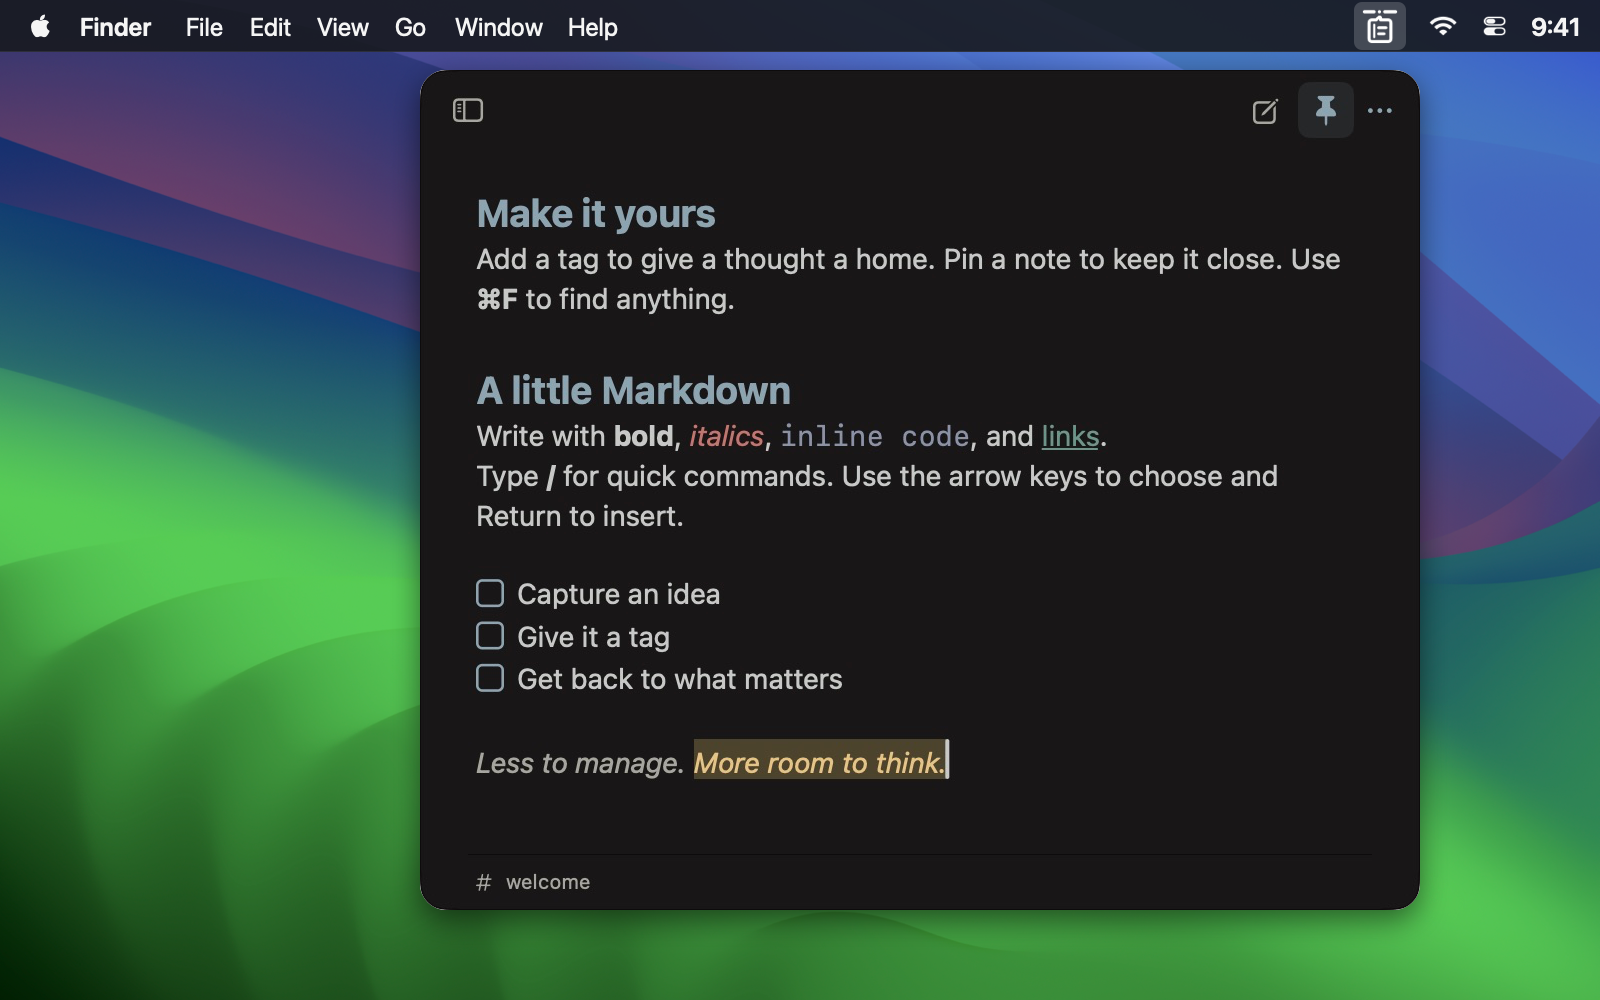
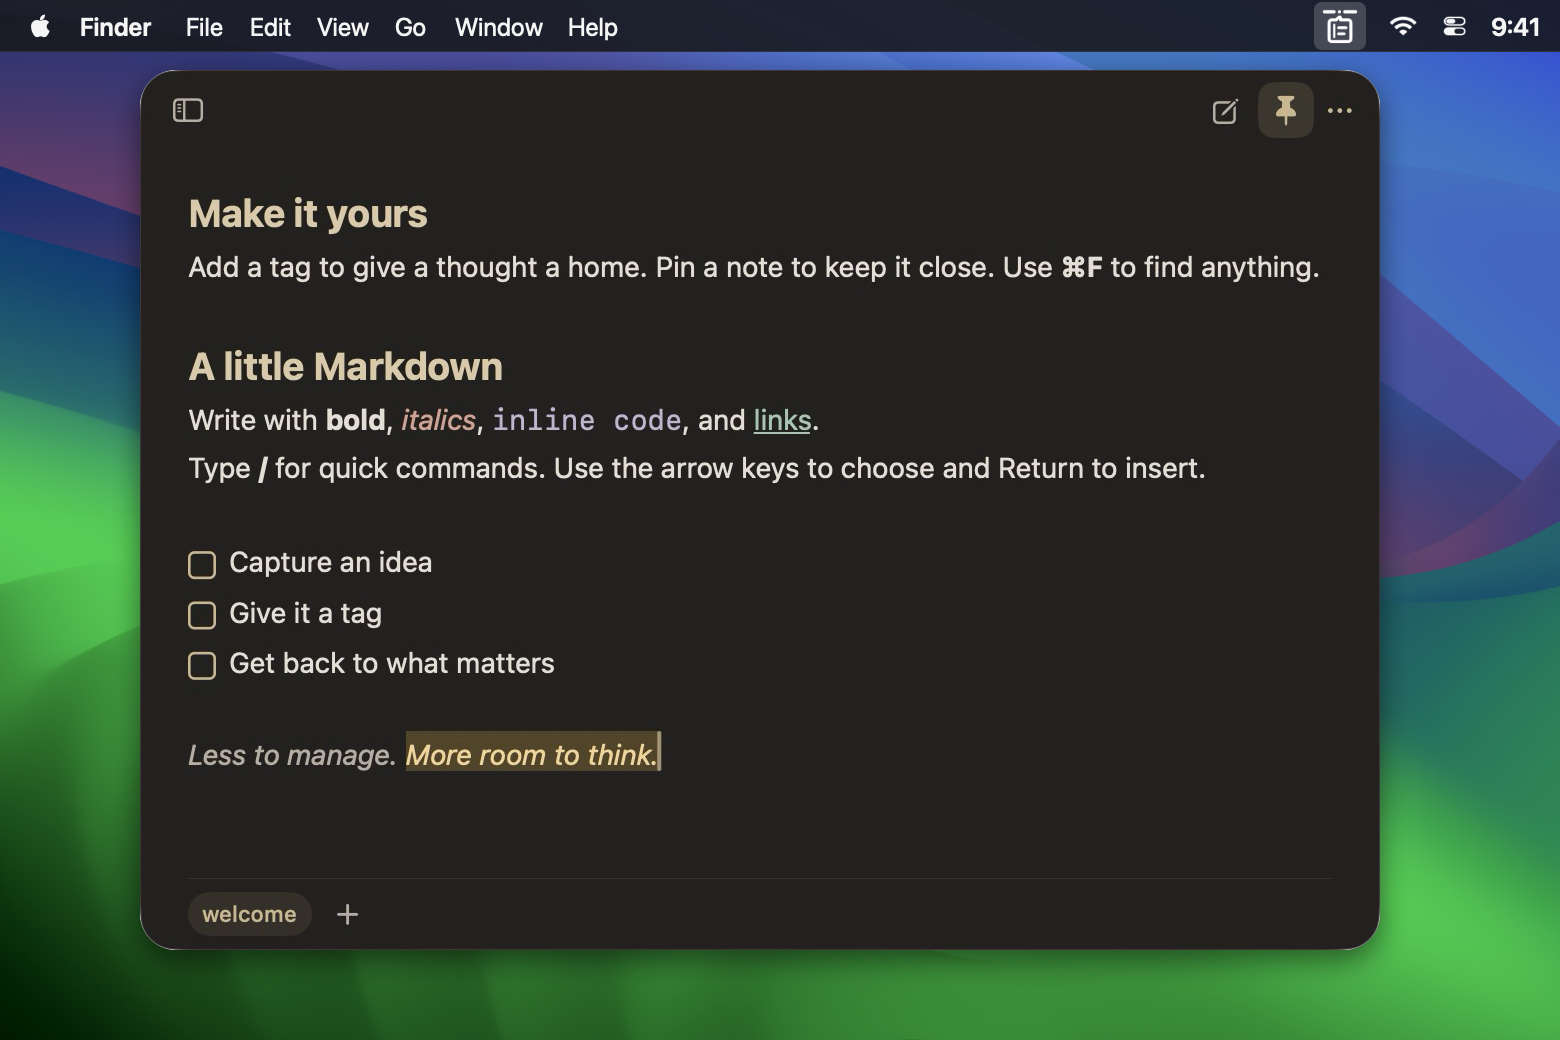
Refresh README and product screenshots

diff --git a/README.md b/README.md
@@ -1,106 +1,130 @@
 <div align="center">
 
-<img src="docs/images/icon.png" alt="slip: macos menu bar note taking app" width="100px"> 
+<img src="docs/images/icon.png" alt="Slip macOS menu bar notepad icon" width="100">
 
-# Slip — notes in your Mac menu bar
+# Slip — quick notes & to-do lists in your Mac menu bar
 
-**Capture a thought. Check off the next thing. Get back to work.**
+**Less to manage. More room to think.**
 
-Slip is a free, open-source **macOS menu bar app for quick notes, Markdown, and lightweight to-do lists**. Open it with a global keyboard shortcut, write without a title, and tuck it away when you're done. Your notes stay on your Mac.
+A free, open-source **macOS menu bar notepad** for quick notes, live Markdown, and everyday to-do lists. Open it, catch a thought, and get back to what matters. No title required.
 
-[**Download for macOS**](https://github.com/berkinduz/slip-menu-note-app/releases/latest) · [How to use](#how-to-use) · [Keyboard shortcuts](#keyboard-shortcuts) · [Contribute](CONTRIBUTING.md)
+**Native macOS · Works offline · Local storage · No account · MIT licensed**
 
-![Slip opened from the Mac menu bar in Kanagawa Dragon, showing readable Markdown, clear task boxes, and highlighted text](docs/images/hero.png)
+[Download for macOS](https://github.com/berkinduz/slip-menu-note-app/releases/latest) · [Quick install](#quick-install) · [How to use](#how-to-use) · [Contribute](#contributing)
 
 </div>
 
+![Slip opened beneath its notebook icon in the macOS menu bar, showing the Make it yours note with live Markdown, task boxes, highlighted text, and a quiet tag footer](docs/images/hero.png)
+
 ## Quick install
 
-Requires **macOS 14 or later on Apple Silicon**. No account or subscription.
+Requires **macOS 14 or later on Apple Silicon**.
 
-1. Download **[Slip-v0.2.2-macos-arm64.dmg](https://github.com/berkinduz/slip-menu-note-app/releases/download/v0.2.2/Slip-v0.2.2-macos-arm64.dmg)** from the [latest release](https://github.com/berkinduz/slip-menu-note-app/releases/latest).
-2. Open the DMG and drag **Slip** to **Applications** in the window that appears.
-3. Open Slip from Applications, then eject the disk image. Look for Slip’s notebook icon in your menu bar.
+1. Download the **[latest DMG](https://github.com/berkinduz/slip-menu-note-app/releases/latest)** from the release assets.
+2. Open it and drag **Slip → Applications** in the installer window.
+3. Open Slip from Applications, then eject the disk image. Your notebook lives in the menu bar.
 
-Prefer an archive? A ZIP is also available in the release assets.
+The screenshots and feature guide below show the current `main` branch. The latest packaged release, **v0.2.2**, predates the Settings and organization redesign. To try the new interface now, [build from source](#build-from-source).
 
-The release is ad hoc signed and **not notarized**. macOS may show a warning on first launch; see Apple's [opening-app guidance](https://support.apple.com/en-us/102445). Each release includes a SHA-256 checksum.
+A ZIP and SHA-256 checksums are also included with each release. Builds are ad hoc signed and **not notarized**; if macOS blocks the first launch, follow Apple's [opening-app guidance](https://support.apple.com/en-us/102445).
 
 ## How to use
 
-- **Open and capture:** click the menu bar icon or press **Control–Option–N**. Start writing immediately; a title is optional. Untitled notes use their first content line in the list.
-- **Keep track of work:** type `/task` to start a checklist. Click the clear task boxes to check an item off. Return continues the list; Return on an empty item ends it.
-- **Stay with a task:** click the **pin in the header** to keep the panel open when switching apps. Click it again to return to quick capture behavior.
-- **Make another note:** use the **new-note icon at the top right** or **Command–N**.
-- **Return to work:** press **Escape** to dismiss a menu or hide the panel. Notes save automatically, and the sidebar remembers whether you left it open.
+1. **Catch a thought.** Click Slip's menu bar icon or press **⌃⌥N**. Start writing immediately. Titles are optional; the note list can use the first line instead.
+2. **Turn it into an action.** Type **`/`** for quick commands, then choose a task list, heading, or another format with the arrow keys and Return. Click a task box to check it off.
+3. **Keep it close.** Use the header pin to keep the panel visible while switching apps. Use **⌘N** or the compose button at the top right for another note.
+4. **Get back to work.** Press **Escape** to dismiss a menu or hide Slip. Changes save automatically. Reopening the panel restores your sidebar preference.
 
-Slip works well for meeting follow-ups, a short daily to-do list, a launch checklist, and ideas you want to catch while working in another app.
+Use it for a few work follow-ups, a meeting note, a daily checklist, or an idea that shouldn't interrupt your flow.
 
-## Markdown that stays readable
+## A little Markdown
 
-Write and read in the same editor. Completed formatting markers disappear while the formatting remains visible. Unfinished syntax stays visible as you type; the stored note remains Markdown.
+Write and read in the same place. Completed Markdown markers disappear into the formatting, so `**bold**` becomes **bold** without switching to a preview. Your note is still stored as Markdown.
 
-- Headings, **bold**, *italic*, strikethrough, and `==highlight==`.
-- Clickable task lists, bullet lists, numbered lists, and quotes.
-- Inline code, fenced code blocks, links, and dividers.
-- A theme-matched **`/` command menu**, plus familiar formatting shortcuts.
+Slip supports headings, bold, italic, strikethrough, highlights, links, inline code, fenced code blocks, quotes, dividers, bullet and numbered lists, and clickable task lists. The **`/` menu follows your theme**, and formatting shortcuts keep your hands on the keyboard.
 
-Select text and press **Command–K** to add a link. Ordinary copy takes the visible text. Choose **More → Export → Copy Markdown** for the source, or **Markdown file…** to export a note.
+**Checklists are first-class notes.** Return continues the list; Return on an empty item ends it. If quick actions are your usual workflow, set **Settings → Quick capture → New notes start with → Checklist** so every new note is ready for a task.
 
-## Folders for structure, tags for connections
+Select text and press **⌘K** to add a link, or **⇧⌘M** to highlight it. Regular copy gives you the visible text. Use **More → Export → Copy Markdown** for the source, or **Markdown file…** to export a note.
 
-![Slip’s welcome note alongside independent folders, a separate note list, and a quiet Tags entry](docs/images/organized.png)
+## Organized when you need it
 
-Give each note a home in a **folder or nested folder**. Use the folder-plus button to create a folder, or right-click a folder to add a subfolder, rename it, or move it. Create a note while a folder is selected to put it there automatically. Use **Move to folder** in a note’s menu to reorganize it.
+![Slip with its compact note sidebar, folder selector, separate tag browser button, and manual tags beneath the current note](docs/images/organized.png)
 
-**Tags work independently of folders.** Add them manually from the slim footer under a note; suggestions help reuse existing tags. Use the small **Tags** entry at the bottom of the sidebar to filter across folders. A tag never creates a folder, and typing `#words` in the note does not add tags.
+### Folders without a crowded sidebar
 
-Search with **Command–F** to find titles and content, or use `#launch` for tag search. Partial tag matches work too. Combine terms such as `#work #meeting notes#` to match both tags. Tag names stay lowercase; your note text, titles, and folder names keep the case you enter.
+The sidebar puts your **notes** first. Click the location above the note list to choose **All notes**, **Pinned**, or a folder. Search for a folder or use its arrow to browse subfolders, one level at a time.
 
-Removing a folder keeps its notes in the parent folder. Notes moved to **Trash** can be restored. Pin important notes to the top of the list through their menu; the header pin separately controls whether the panel stays open.
+Use the folder-plus button in this chooser to create a folder. Right-click a folder to create a subfolder, rename it, move it, or remove it. New notes go into the selected folder; **Move to folder** in a note's menu handles the rest. Removing a folder keeps its notes in the parent folder.
+
+### Tags you add yourself
+
+Add tags from the small **footer beneath your note**. Type a name, reuse a suggestion, or create one explicitly. Use **↑ / ↓** to choose, **Return** to add, and **Escape** to return to writing. Typing `#words` in a note does not create tags.
+
+The **tag button beside the sidebar's location selector** opens a searchable tag browser with note counts. Filter across folders, give a tag a monochrome icon, or rename it. Renaming to an existing tag offers an explicit **Merge**. Removing a tag keeps the notes and their contents.
+
+Folders give a note one home; tags connect notes across those homes. Tag names stay lowercase. Your titles, folder names, and note text keep the case you enter.
+
+### Find it again
+
+Press **⌘F** to search titles and content. Start a query with `#work` to search by tag, or combine it with text, such as `#work feedback`. Pin frequently used notes through their menu to keep them at the top of the list. Deleted notes go to **Trash**, where they can be restored.
+
+## Make it feel like yours
+
+![Slip Settings in dark mode, with eight theme choices, six accent options, and a live Markdown sample](docs/images/settings.jpg)
+
+Settings has dedicated pages for **Appearance**, **Editor**, **Quick capture**, **Organization**, and **About Slip**. Open it with **⌘,** or **More → Settings…**.
+
+- **Appearance:** choose **Slip Theme**, System, Light, Dark, Linen, Dusk, Ocean, or Forest. Keep the theme's accent or pick Sand, Sage, Blue, Rose, or Violet.
+- **Editor:** use SF Pro Text, SF Mono, or an installed font. Adjust size, line height, paragraph spacing, page margins, and ligatures with a live Markdown sample. Set spell checking, autocorrect, and smart punctuation to suit your writing.
+- **Quick capture:** start with a blank note, checklist, or bullet list. Choose whether Slip opens on launch, stays open across apps, continues lists, or shows slash commands.
+- **Organization:** sort by last edit, creation date, or title; show or hide note previews and word count; open your local data folder.
+- **About Slip:** find the version, source code, contribution links, and ways to support development.
 
 ## Keyboard shortcuts
 
+On Mac, **⌘** is Command, **⌥** is Option, **⌃** is Control, and **⇧** is Shift.
+
 | Action | Shortcut |
 | --- | --- |
-| Open or hide Slip | Control–Option–N |
-| New note | Command–N |
-| New folder | Shift–Command–N |
-| Search notes | Command–F |
-| Bold / italic / inline code | Command–B / Command–I / Command–E |
-| Add or edit a link / highlight | Command–K / Shift–Command–M |
-| Heading / bullet list / task list | Shift–Command–H / L / T |
-| Show or hide the sidebar | Shift–Command–S |
-| Settings | Command–Comma |
+| Open or hide Slip from another app | ⌃⌥N |
+| New note / new folder | ⌘N / ⇧⌘N |
+| Search notes | ⌘F |
+| Bold / italic / inline code | ⌘B / ⌘I / ⌘E |
+| Add or edit a link | ⌘K |
+| Highlight | ⇧⌘M |
+| Heading / bullet list / task list | ⇧⌘H / ⇧⌘L / ⇧⌘T |
+| Show or hide the sidebar | ⇧⌘S |
+| Settings | ⌘, |
 | Dismiss a menu or hide the panel | Escape |
 
-## Make it feel at home
+## Your notes stay on your Mac
 
-Slip is a native **SwiftUI and AppKit** macOS app. The default appearance pairs **Kanagawa Dragon** with **SF Pro Text**. Settings include System, Light, and Dark themes, your installed fonts, font size, line height, ligatures, spell checking, and list continuation.
+Slip works offline and uses no account or cloud service. Notes, folders, tags, and preferences live in **`~/Library/Application Support/Slip/`**. Open the folder from Settings, or export a note as Markdown to take it elsewhere.
 
-## Local by default
-
-Slip works offline. It needs no account or cloud service. Notes, folders, and tags are stored locally in `~/Library/Application Support/Slip/`; use **Show folder** in Settings to find your data. Export notes as Markdown when you want to take them elsewhere.
-
-**Cloud sync is not included.** The downloadable build targets Apple Silicon; an Intel release is not currently provided.
+Cloud sync is not included. The downloadable app targets **Apple Silicon**; an Intel release is not currently provided. Slip uses **SwiftUI and AppKit** for its native macOS interface.
 
 ## Contributing
 
-Bug reports, thoughtful UI improvements, and code contributions are welcome. The goal is a fast, quiet menu bar notepad that makes small actions easy to capture and organize.
+Help make a small, useful menu bar notes app better. **Bug reports, accessibility improvements, UI refinements, documentation, and focused code contributions are welcome.**
 
-Read **[CONTRIBUTING.md](CONTRIBUTING.md)** for setup and development notes, [report a bug](https://github.com/berkinduz/slip-menu-note-app/issues), or open a pull request. If Slip fits your day, sharing it helps other people find it.
+Read [CONTRIBUTING.md](CONTRIBUTING.md), [report a bug or suggest an improvement](https://github.com/berkinduz/slip-menu-note-app/issues), or open a pull request. For a larger feature, start an issue to discuss how it fits Slip's simple quick-capture workflow.
 
 ### Build from source
 
-Install Xcode 16 or later with Swift 6, then run:
+You need **macOS 14 or later**, **Xcode 16 or later**, and **Swift 6**.
 
 ```sh
-./scripts/build-app.sh
+git clone https://github.com/berkinduz/slip-menu-note-app.git
+cd slip-menu-note-app
 swift test
+./scripts/build-app.sh
 ```
 
-The script creates `Slip.app` next to the project directory and signs it ad hoc. It does not notarize or launch the app.
+The script creates an ad hoc signed **`Slip.app` next to the repository directory**. Open it to try the current interface. It does not launch or notarize the app automatically. You can also open `Package.swift` in Xcode. See the contribution guide for DMG packaging.
 
-## License
+Made by [berkinduz](https://github.com/berkinduz). If Slip makes your day a little lighter, [buy me a coffee](https://buymeacoffee.com/berkinduz) or share it with someone who lives in their menu bar.
 
-Slip is available under the **[MIT License](LICENSE)**. Kanagawa Dragon attribution is included in [third-party notices](Resources/THIRD-PARTY-NOTICES.txt). macOS interface elements and the Sonoma wallpaper shown in the promotional images belong to Apple.
+## License & credits
+
+Slip is free and open source under the **[MIT License](LICENSE)**. Slip Theme grew from Kanagawa Dragon; attribution is included in [third-party notices](Resources/THIRD-PARTY-NOTICES.txt). Promotional images combine the real Slip interface with a macOS desktop setting; macOS interface elements and the Sonoma wallpaper belong to Apple.
